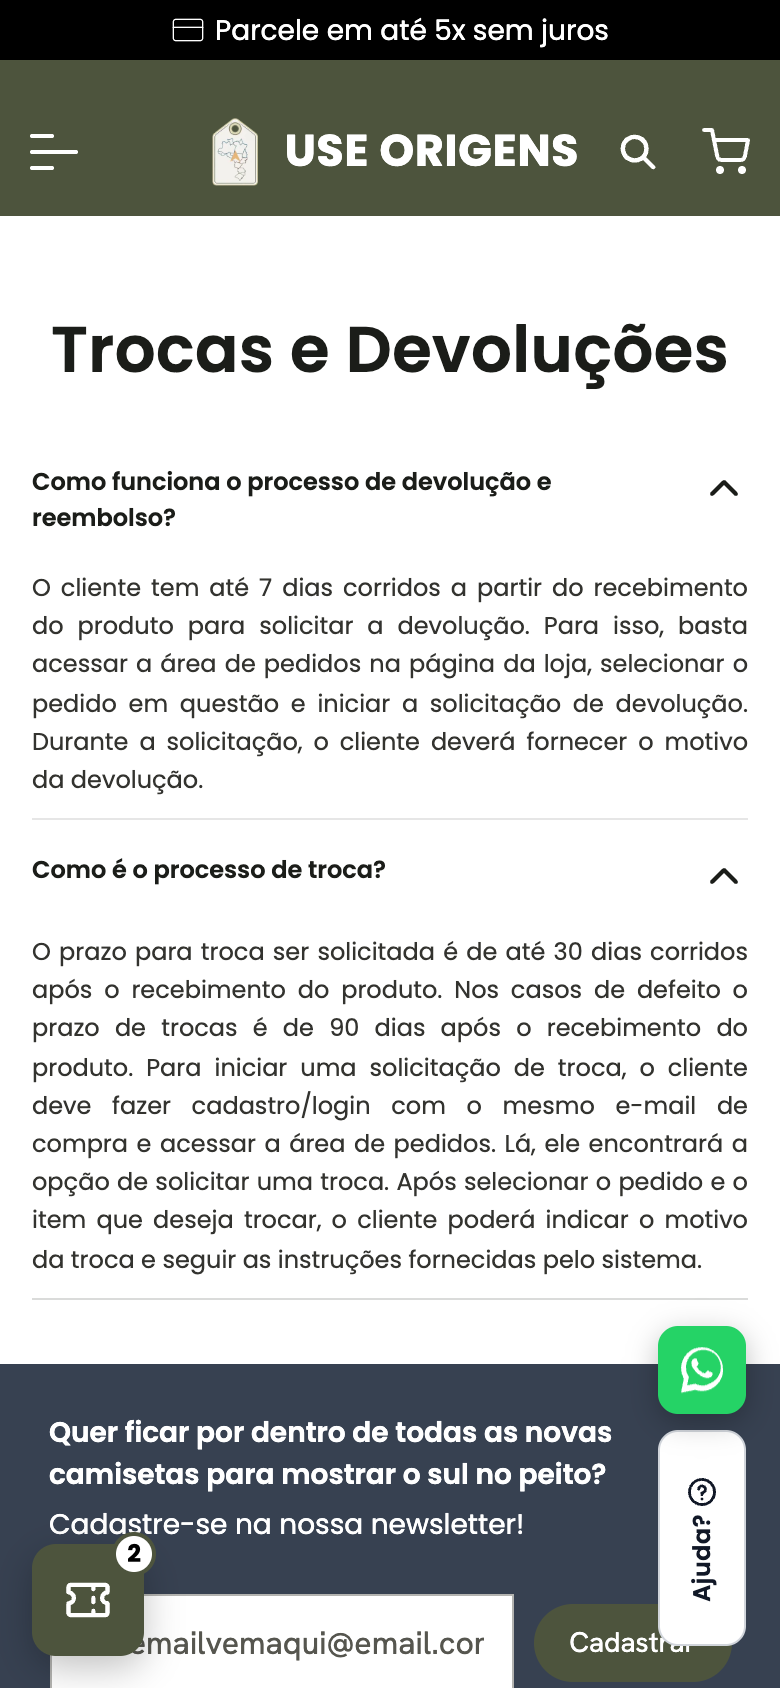
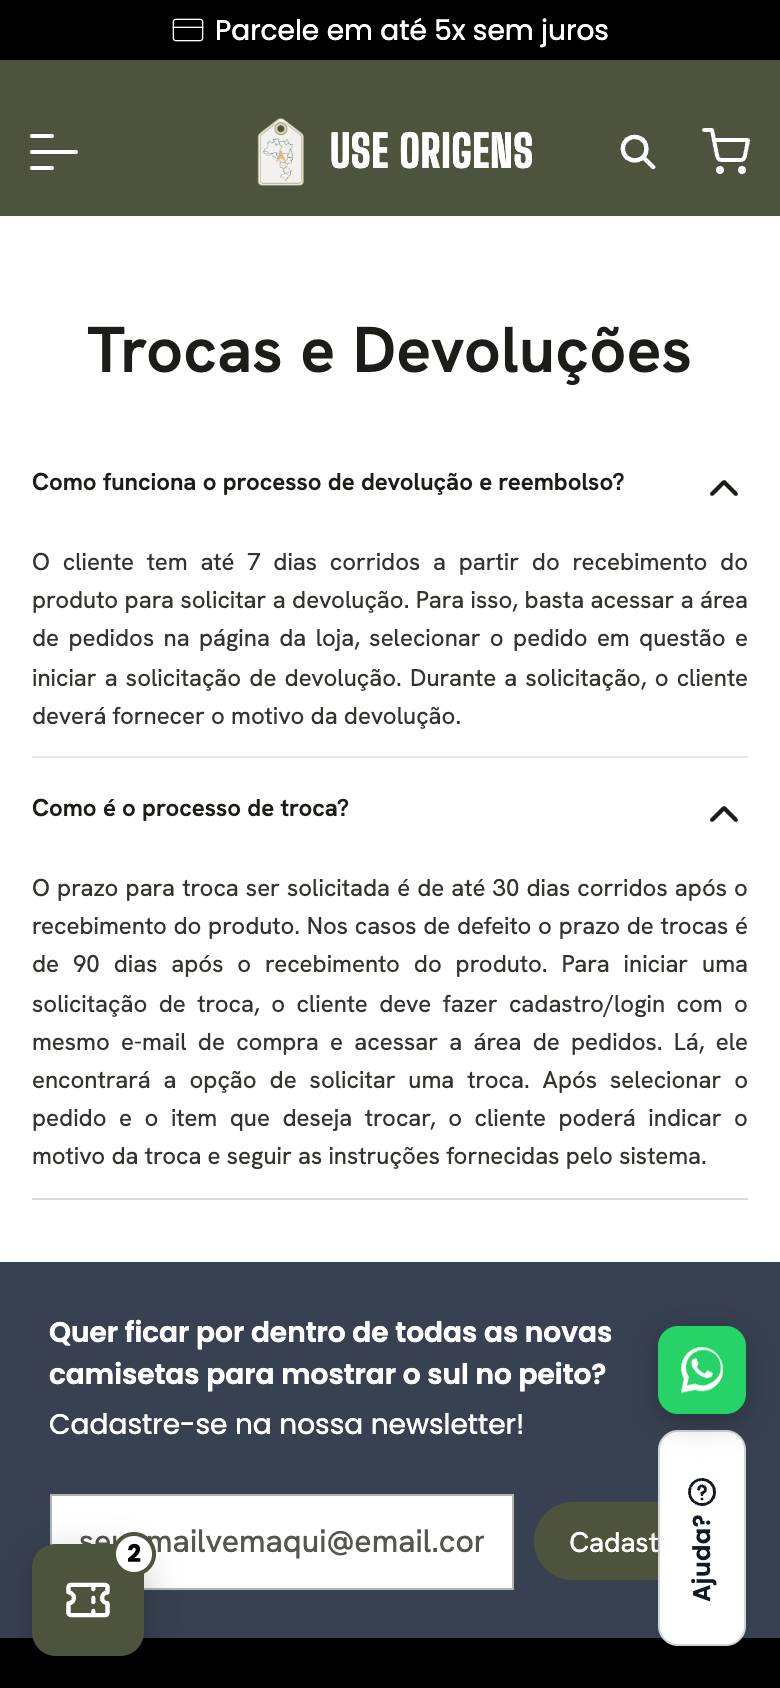
fix(tema-conta): fonte do site na página de trocas (o CSS do new layout da INK força a Poppins)
Só na página de trocas (main.main-faq) e no nome da marca do cabeçalho dela: a fonte do site
volta com !important, ícones fora. Prints de trocas atualizados. npm test 622/622.

Changed region(s): [[0.0, 0.2773, 1.0, 1.0], [0.0615, 0.1848, 0.9231, 0.2464], [0.2769, 0.0616, 0.7385, 0.1232]]

diff --git a/src/theme.js b/src/theme.js
@@ -594,6 +594,9 @@ function accountCss() {
     // Resumo do pedido (detalhe): miniaturas no cinza das fotos, cantos do tema.
     CARD + ' img{border-radius:var(--o-radius)!important;background:var(--o-photo)}',
     // Trocas e devoluções: título e perguntas na tipografia do site, linhas finas entre as perguntas.
+    // A página de trocas carrega o CSS do "new layout" da INK, que força a Poppins: a fonte do site volta com !important só aqui (ícones fora).
+    A + ' main.main-faq,' + A + ' main.main-faq :where(*:not(i):not(svg):not(svg *)),' + A + ':has(main.main-faq) .o-nav :where(*:not(i):not(svg):not(svg *)){font-family:var(--o-font)!important}',
+    A + ':has(main.main-faq) .o-nav-word{font-family:var(--o-word)!important}',
     A + ' main.main-faq h4{font-weight:700;font-size:clamp(26px,2.8vw,36px);letter-spacing:-.015em;color:var(--o-ink)}',
     A + ' main.main-faq details{border-bottom:1px solid var(--o-line-soft)}',
     A + ' main.main-faq summary{min-height:48px;font-weight:600;color:var(--o-ink);cursor:pointer}',
